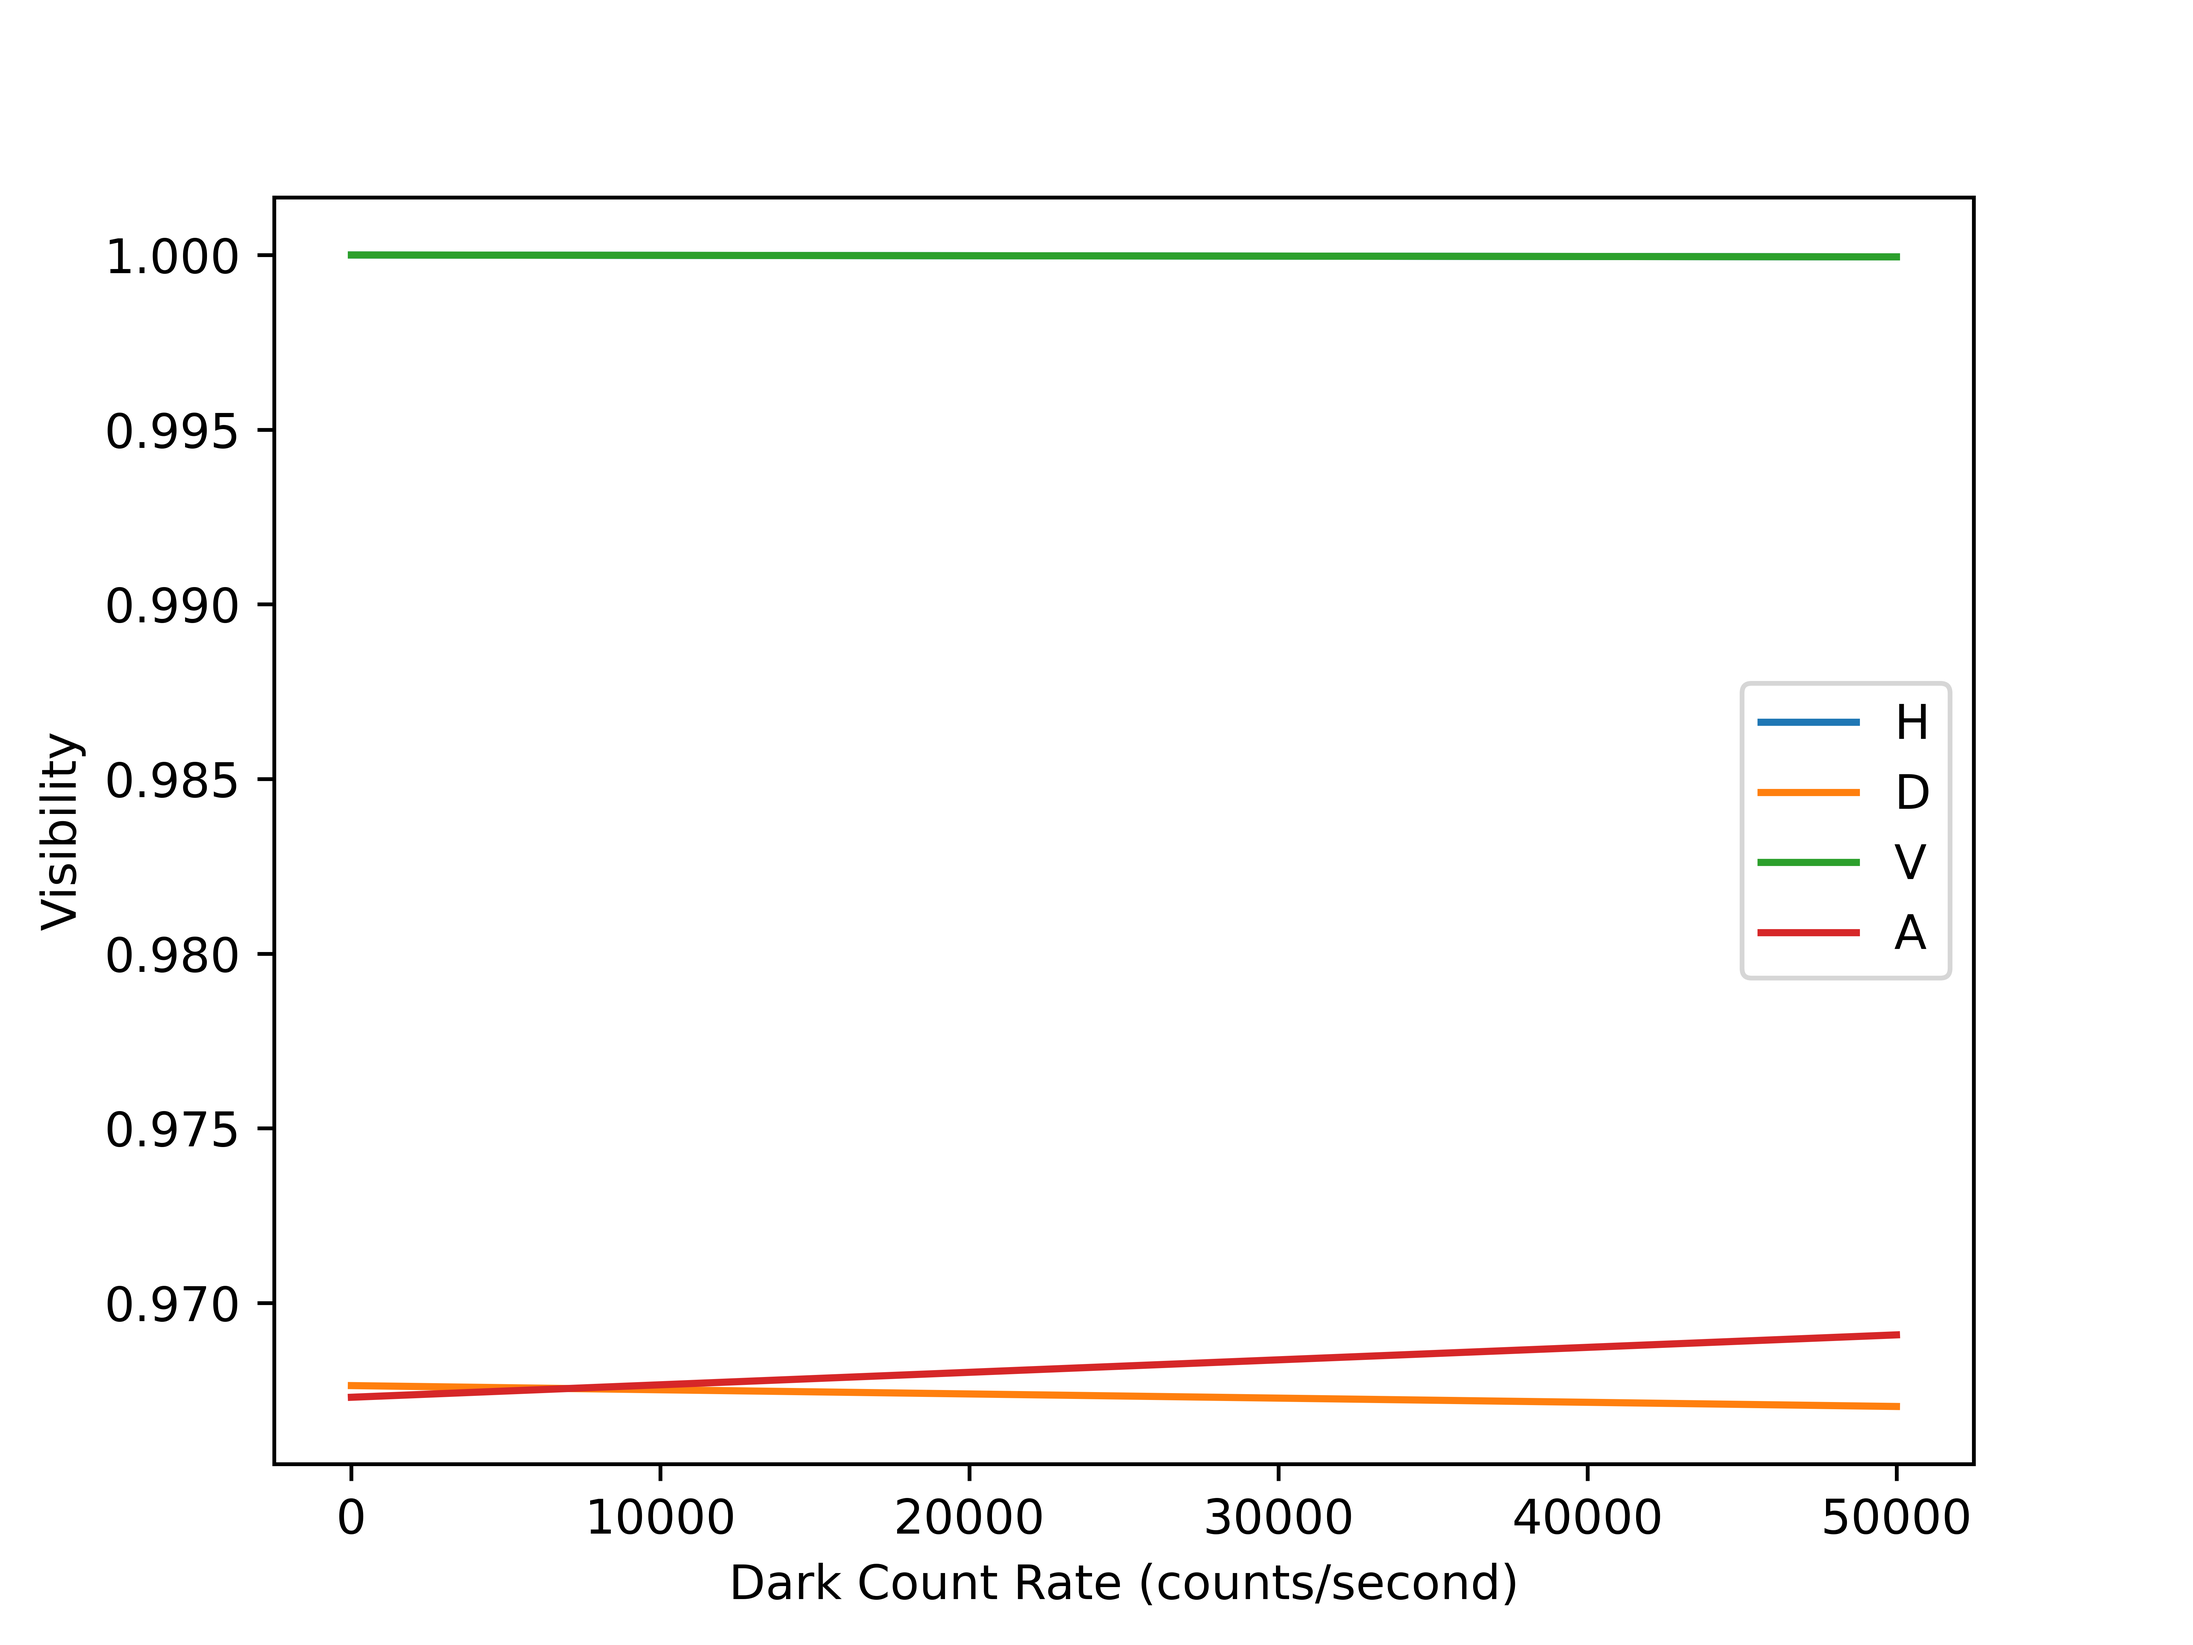
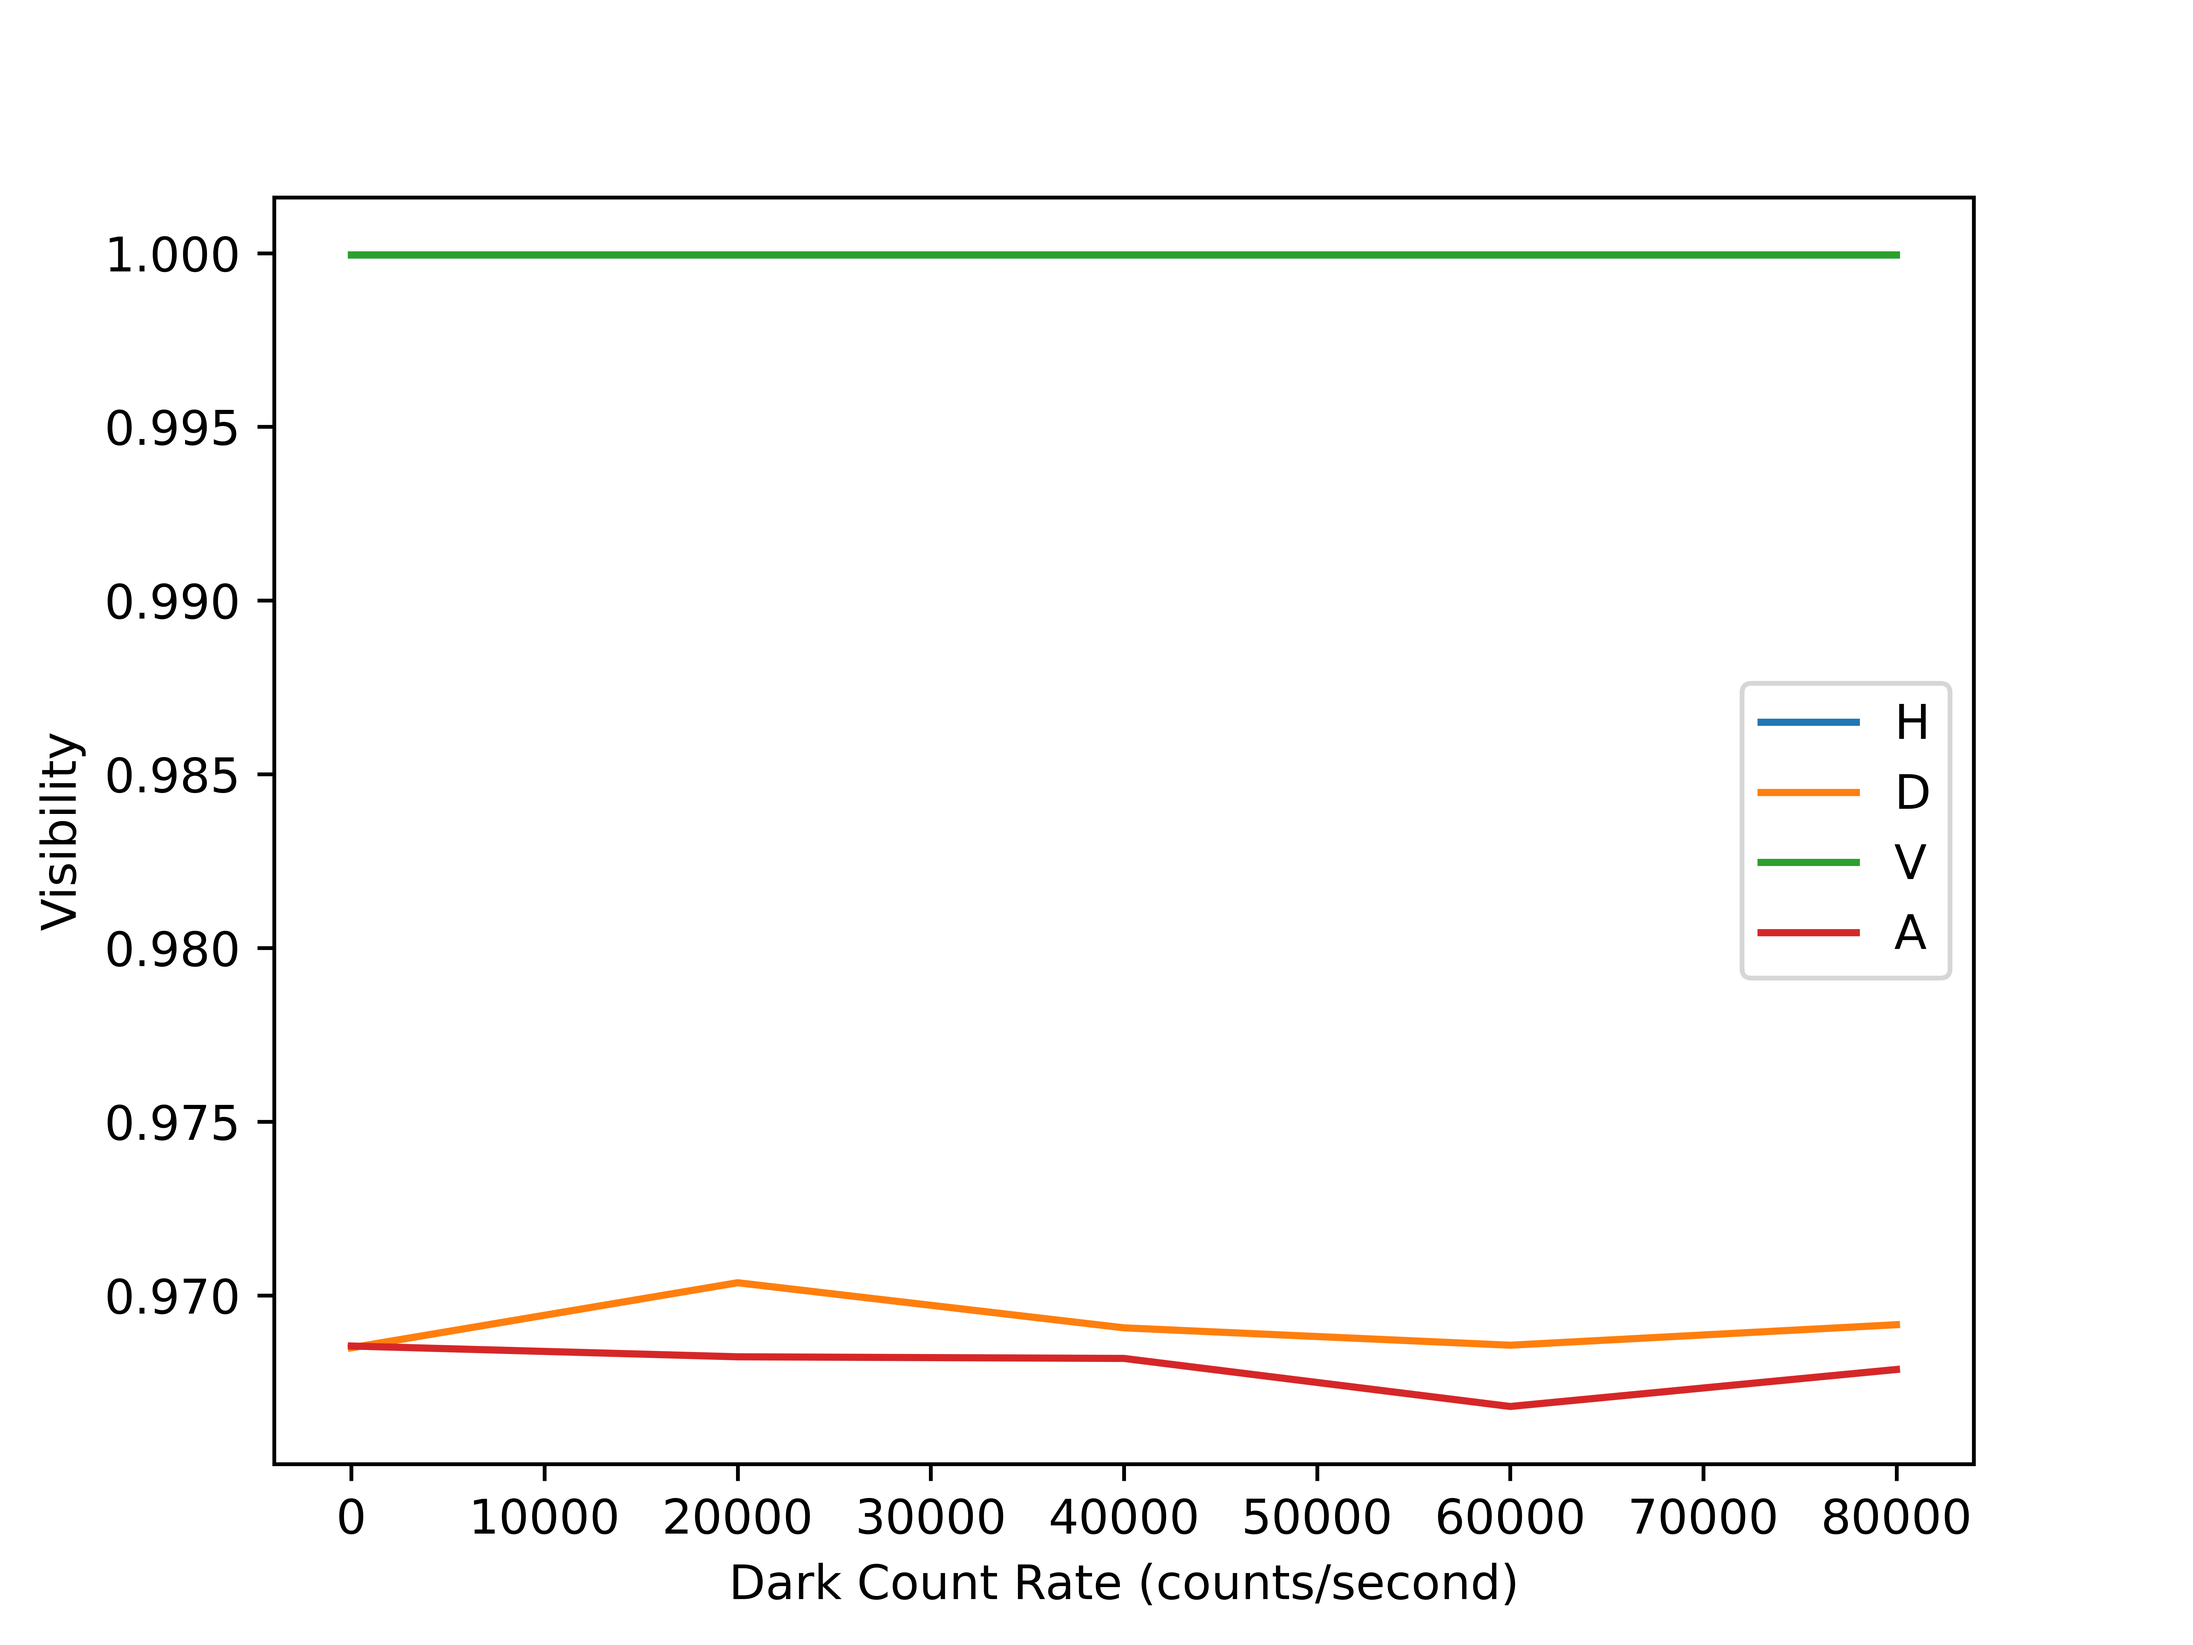
added more plotting scripts in plot.py

diff --git a/simulations_with_practical_issues/Rotation.py b/simulations_with_practical_issues/Rotation.py
@@ -7,8 +7,10 @@ from alive_progress import alive_bar
 import matplotlib.pyplot as plt
 import yaml
 
+states = ['H', 'D', 'V', 'A']
 
-class EntanglementSim:
+
+class Rotation:
 
     def __init__(self, yaml_fn, entangled_state, rotations):
         self.yaml_fn = yaml_fn
@@ -30,9 +32,9 @@ class EntanglementSim:
         self.rotations = rotations
         self.x_val = []
         self.y_val = [[], [], [], []]
+        self.state = ''
 
     def run(self):
-        states = ['H', 'D', 'V', 'A']
 
         qc = QuantumCircuit(2, 2)
         with alive_bar(4 * self.rotations, force_tty=True) as bar:
@@ -51,35 +53,39 @@ class EntanglementSim:
                     delta = 4 * j * math.pi / self.rotations
                     qc.ry(delta, 1)
                     pr_00 = abs(Statevector(qc)[0]) ** 2
+                    if i + j == 0:
+                        self.state = Statevector(qc).draw(output='latex_source')
 
                     sim = Simulator(pr_00, 'config.yaml')
                     bar()
-                    self.y_val[i].append(sim.simulate())
+                    self.y_val[i].append(sim.run())
 
                     if i == 0:
                         self.x_val.append(delta)
 
-        # calculate visibility
+    def get_visibility(self):
+
         visibility = []
         for i in range(4):
             i_max = max(self.y_val[i])
             i_min = min(self.y_val[i])
             visibility.append((i_max - i_min) / (i_max + i_min))
-            print(states[i] + ': ' + str(visibility[i]))
+            # print(states[i] + ': ' + str(visibility[i]))
 
         return visibility
 
     def plot_correlation(self):
-        states = ['H', 'D', 'V', 'A']
 
         fig, ax = plt.subplots()
 
         for i in range(4):
             ax.plot(self.x_val, self.y_val[i], label=states[i])
 
-        ax.set_xlabel("Angle")
+        ax.set_xlabel("Polarizer Angle for the 2nd Photon")
         ax.set_ylabel("Counts")
         ax.set_ylim(0 - 40, self.n + 40)
+        title = '$' + self.state + '$'
+        ax.set_title(title)
         ax.set_xticks([0, math.pi, 2 * math.pi, 3 * math.pi, 4 * math.pi], ['0', 'π', '2π', '3π', '4π'])
         plt.legend()
         plt.savefig('plots\\polarization_correlation.png', dpi=1000)
@@ -88,59 +94,23 @@ class EntanglementSim:
     def set_dc_rate(self, dc):
         self.dark_count_rate = dc
 
+    def set_loss_signal(self, loss):
+        self.optical_loss_signal = loss
 
-def plot_visibility_darkcounts():
-    states = ['H', 'D', 'V', 'A']
+    def set_loss_idler(self, loss):
+        self.optical_loss_idler = loss
 
-    x_val = range(0, 100000, 20000)
-    y_val = [[], [], [], []]
+    def set_jitter(self, jitter):
+        self.jitter_fwhm = jitter
 
-    # delta = phase difference
-    delta = .25
-    entangled_state = [1 / math.sqrt(2), 0, 0, np.exp(1j * delta) / math.sqrt(2)]
-
-    for dc in x_val:
-        sim = EntanglementSim('config.yaml', entangled_state, 200)
-        sim.set_dc_rate(dc)
-        visibility = sim.run()
-        for i in range(4):
-            y_val[i].append(visibility[i])
-
-    for i in range(4):
-        plt.plot(x_val, y_val[i], label=states[i])
-    plt.legend()
-    plt.xlabel('Dark Count Rate (counts/second)')
-    plt.ylabel('Visibility')
-    plt.savefig('plots\\visibility_vs_darkcounts', dpi=1000)
-    plt.show()
-
-
-def plot_visibility_phasediff():
-    states = ['H', 'D', 'V', 'A']
-
-    x_val = [0, 0.5, 1, 1.5]
-    y_val = [[], [], [], []]
-
-    for delta in x_val:
-        entangled_state = [1 / math.sqrt(2), 0, 0, np.exp(1j * delta) / math.sqrt(2)]
-        sim = EntanglementSim('config.yaml', entangled_state, 200)
-        visibility = sim.run()
-        for i in range(4):
-            y_val[i].append(visibility[i])
-
-    for i in range(4):
-        plt.plot(x_val, y_val[i], label=states[i])
-    plt.legend()
-    plt.xlabel('Phase Difference in the Entangled State')
-    plt.ylabel('Visibility')
-    plt.savefig('plots\\visibility_vs_phasediff', dpi=1000)
-    plt.show()
+    def set_deadtime(self, deadtime):
+        self.deadtime = deadtime
 
 
 if __name__ == '__main__':
-    # d = .25
-    # state = [1 / math.sqrt(2), 0, 0, np.exp(1j * d) / math.sqrt(2)]
-    # a = EntanglementSim('config.yaml', state, 200)
-    # a.run()
-    # a.plot_correlation()
-    plot_visibility_phasediff()
+    d = .25
+    state = [1 / math.sqrt(2), 0, 0, np.exp(1j * d) / math.sqrt(2)]
+    a = Rotation('config.yaml', state, 200)
+    a.run()
+    print(a.get_visibility())
+    a.plot_correlation()

diff --git a/simulations_with_practical_issues/plot.py b/simulations_with_practical_issues/plot.py
@@ -1,0 +1,133 @@
+from simulations_with_practical_issues.Rotation import Rotation
+import numpy as np
+import math
+import matplotlib.pyplot as plt
+
+
+def plot_visibility_darkcounts(start, stop, num_points):
+
+    x_val = np.linspace(start, stop, num_points)
+    y_val = [[], [], [], []]
+
+    # delta = phase difference
+    delta = .25
+    entangled_state = [1 / math.sqrt(2), 0, 0, np.exp(1j * delta) / math.sqrt(2)]
+
+    for dc in x_val:
+        sim = Rotation('config.yaml', entangled_state, 200)
+        sim.set_dc_rate(dc)
+        visibility = sim.run()
+        for i in range(4):
+            y_val[i].append(visibility[i])
+
+    for i in range(4):
+        plt.plot(x_val, y_val[i], label=states[i])
+    plt.legend()
+    plt.xlabel('Dark Count Rate (counts/second)')
+    plt.ylabel('Visibility')
+    plt.savefig('plots\\visibility_vs_darkcounts', dpi=1000)
+    plt.show()
+
+
+def plot_visibility_phasediff(start, stop, num_points):
+
+    x_val = np.linspace(start, stop, num_points)
+    y_val = [[], [], [], []]
+
+    for delta in x_val:
+        entangled_state = [1 / math.sqrt(2), 0, 0, np.exp(1j * delta) / math.sqrt(2)]
+        sim = Rotation('config.yaml', entangled_state, 200)
+        visibility = sim.run()
+        for i in range(4):
+            y_val[i].append(visibility[i])
+
+    for i in range(4):
+        plt.plot(x_val, y_val[i], label=states[i])
+    plt.legend()
+    plt.xlabel('Phase Difference in the Entangled State')
+    plt.ylabel('Visibility')
+    plt.savefig('plots\\visibility_vs_phasediff', dpi=1000)
+    plt.show()
+
+
+def plot_visibility_loss(start, stop, num_points):
+
+    x_val = np.linspace(start, stop, num_points)
+    y_val = [[], [], [], []]
+
+    # delta = phase difference
+    delta = .25
+    entangled_state = [1 / math.sqrt(2), 0, 0, np.exp(1j * delta) / math.sqrt(2)]
+
+    for loss in x_val:
+        sim = Rotation('config.yaml', entangled_state, 200)
+        sim.set_loss_signal(loss)
+        sim.set_loss_idler(loss)
+        visibility = sim.run()
+        for i in range(4):
+            y_val[i].append(visibility[i])
+
+    for i in range(4):
+        plt.plot(x_val, y_val[i], label=states[i])
+    plt.legend()
+    plt.xlabel('Optical Loss')
+    plt.ylabel('Visibility')
+    plt.savefig('plots\\visibility_vs_loss', dpi=1000)
+    plt.show()
+
+
+def plot_visibility_jitter(start, stop, num_points):
+
+    x_val = np.linspace(start, stop, num_points)
+    y_val = [[], [], [], []]
+
+    # delta = phase difference
+    delta = .25
+    entangled_state = [1 / math.sqrt(2), 0, 0, np.exp(1j * delta) / math.sqrt(2)]
+
+    for jitter in x_val:
+        sim = Rotation('config.yaml', entangled_state, 200)
+        sim.set_jitter(jitter)
+        visibility = sim.run()
+        for i in range(4):
+            y_val[i].append(visibility[i])
+
+    for i in range(4):
+        plt.plot(x_val, y_val[i], label=states[i])
+    plt.legend()
+    plt.xlabel('Jitter FWHM (ps)')
+    plt.ylabel('Visibility')
+    plt.savefig('plots\\visibility_vs_jitter', dpi=1000)
+    plt.show()
+
+
+def plot_visibility_deadtime(start, stop, num_points):
+    x_val = np.linspace(start, stop, num_points)
+    y_val = [[], [], [], []]
+
+    # delta = phase difference
+    delta = .25
+    entangled_state = [1 / math.sqrt(2), 0, 0, np.exp(1j * delta) / math.sqrt(2)]
+
+    for deadtime in x_val:
+        sim = Rotation('config.yaml', entangled_state, 200)
+        sim.set_deadtime(deadtime)
+        visibility = sim.run()
+        for i in range(4):
+            y_val[i].append(visibility[i])
+
+    for i in range(4):
+        plt.plot(x_val, y_val[i], label=states[i])
+    plt.legend()
+    plt.xlabel('Deadtime (ps)')
+    plt.ylabel('Visibility')
+    plt.savefig('plots\\visibility_vs_deadtime', dpi=1000)
+    plt.show()
+
+
+if __name__ == '__main__':
+    # plot_visibility_darkcounts(0, 100000, 4)
+    # plot_visibility_phasediff(0, 2*math.pi, 8)
+    # plot_visibility_loss(0, 1, 4)
+    # plot_visibility_jitter(0, 1000, 4)
+    plot_visibility_deadtime(0, 1000000, 4)
